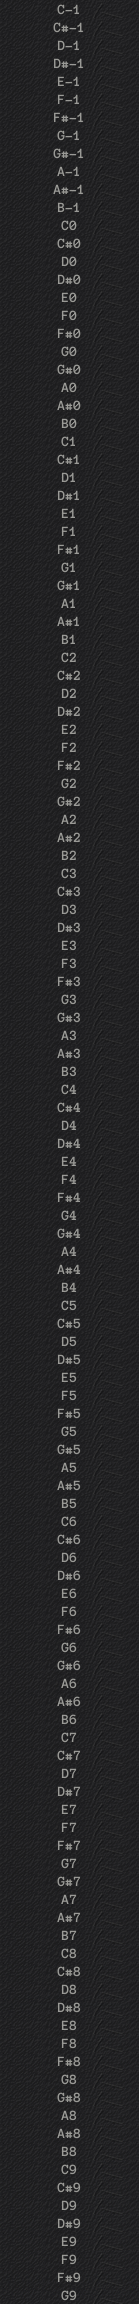
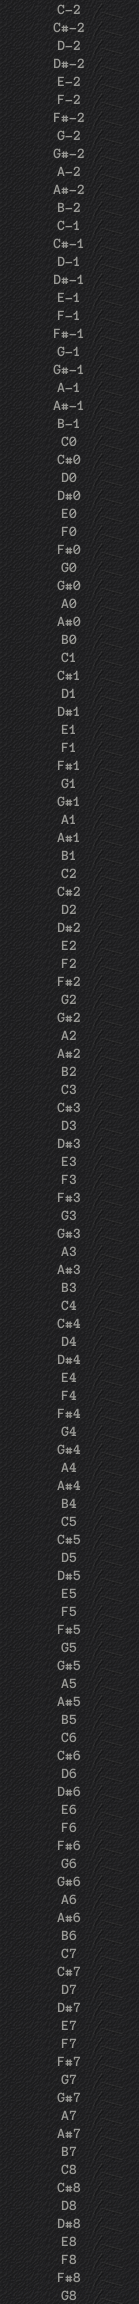
Split points named as Cubase names notes (note 60: C3) everywhere: LOW SPLIT's POINT starts on C3, the MPC's SPLIT POINT says the same as the VST
Claude-Session: https://claude.ai/code/session_019gwqiMH8C1gEdwSnaoSEZi

Changed region(s): [[0.3741, 0.0, 0.6043, 0.6562], [0.4892, 0.75, 0.5755, 1.0]]

diff --git a/src/PluginProcessor.cpp b/src/PluginProcessor.cpp
@@ -51,7 +51,7 @@ juce::AudioProcessorValueTreeState::ParameterLayout ReevesProcessor::createLayou
         juce::ParameterID{"lsplit_point", 1}, "Low Split Point", 24, 96, 60,
         juce::AudioParameterIntAttributes().withStringFromValueFunction([](int v, int) {
             static const char *const N[12] = {"C", "C#", "D", "D#", "E", "F", "F#", "G", "G#", "A", "A#", "B"};
-            return juce::String(N[v % 12]) + juce::String(v / 12 - 1);
+            return juce::String(N[v % 12]) + juce::String(v / 12 - 2);   /* (as Cubase names them: note 60 is C3) */
         })));
     layout.add(std::make_unique<juce::AudioParameterBool>(juce::ParameterID{"low_hold", 1}, "Low Hold", false));
     layout.add(std::make_unique<juce::AudioParameterFloat>(

diff --git a/mpc/skin/render_skin.cpp b/mpc/skin/render_skin.cpp
@@ -363,7 +363,7 @@ String valueText(const String &id, int v)
         return r.names[v - r.lo];
     if (id == "split_point") {
         static const char *N[12] = {"C", "C#", "D", "D#", "E", "F", "F#", "G", "G#", "A", "A#", "B"};
-        return String(N[v % 12]) + String(v / 12 - 1);
+        return String(N[v % 12]) + String(v / 12 - 2);   /* (note 60: C3, as the VST shows it) */
     }
     return String(v);
 }

diff --git a/CHANGES.md b/CHANGES.md
@@ -8,6 +8,7 @@ downloads are built into it, and the website and the Discord post follow.
 The factory sounds re-voiced for the new oscillators:
 - Basses and leads with SUB OCTAVE get their low end back (the sub is quieter since 1.2.0, so it's turned up).
 - All 32 sounds evened out in level, so none jumps out when you step through them.
+- Split points shown as Cubase names notes: LOW SPLIT's POINT starts on C3 (note 60), as does Split A|B (both used to say C4 for the same note on some screens).
 - More Rev2 character: Rev Pad and Warm Strings now have the Rev2's slowly moving saw (an LFO on SHAPE MOD), Brass Section a bit of reedy bite from oscillator 2's SHAPE MOD.
 
 ## 1.2.0
